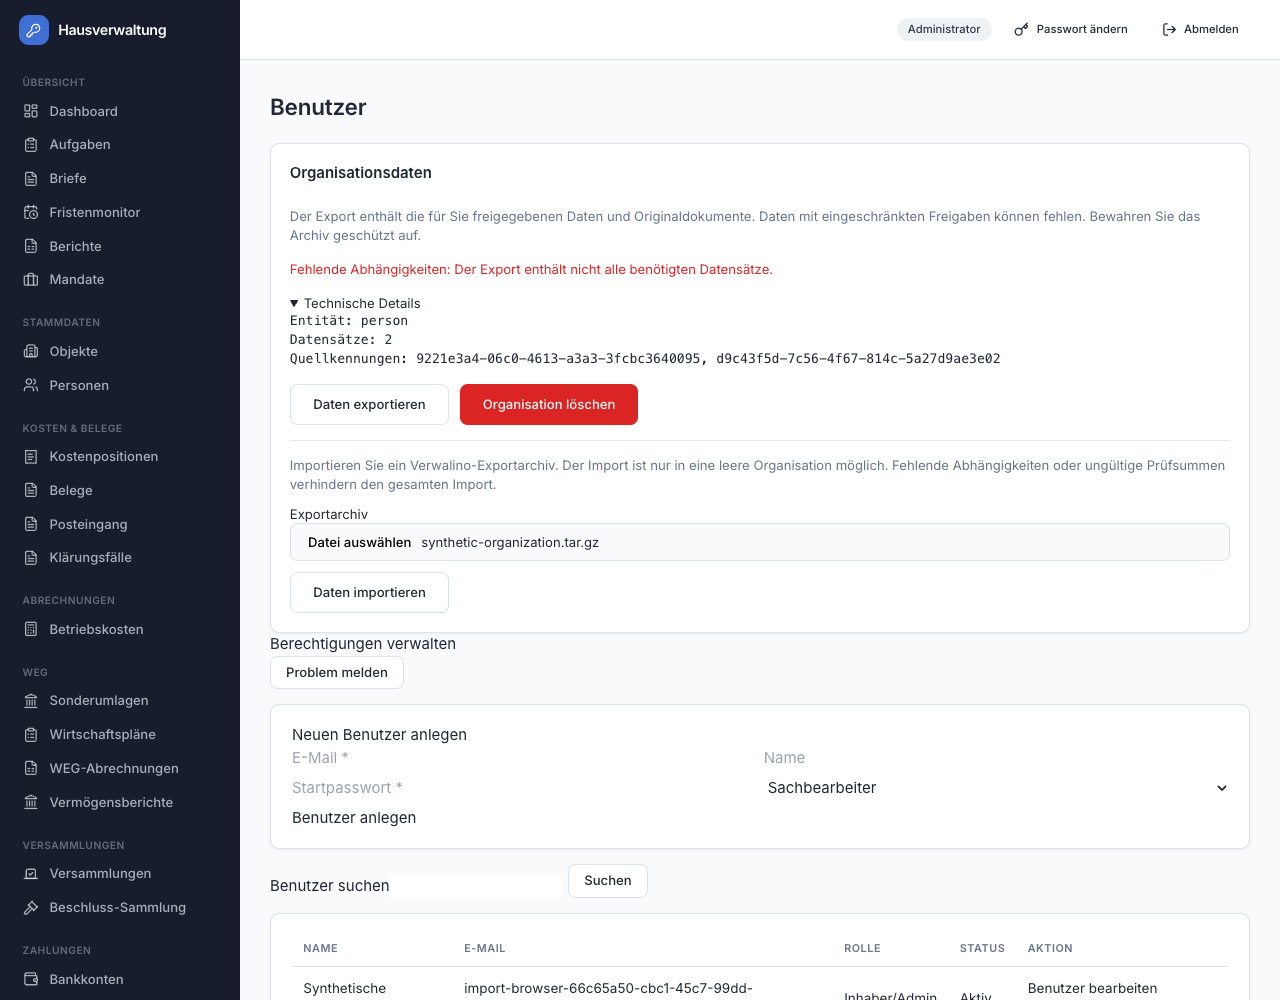
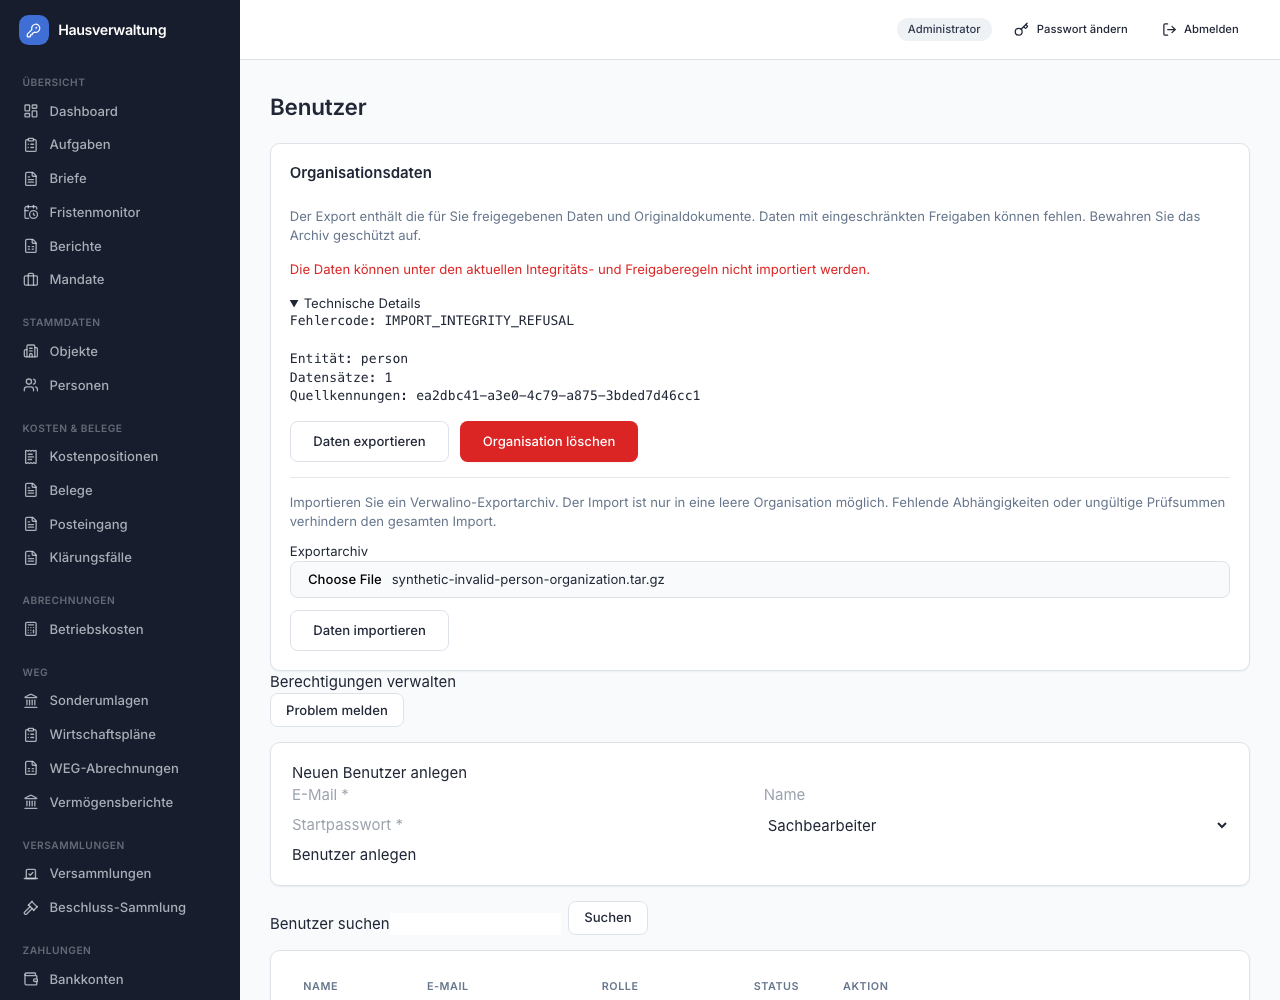
fix(organizations): adapt import rollback and refusal details
Updated self-hosted storage no longer tracks rollback files. Clean new import files before admission unlocks, preserve existing bytes, and resolve deferred integrity checks before returning. Show structured refusal codes in the existing German technical disclosure.

Tests: red-first import and UI regressions; 193 focused backend tests, 27 frontend tests, 25 affected hosted scenarios with 2 skips, lint, docs links, and 13 rule checks. Browser screenshots verified at 1280 and 360 pixels.

Refs #23

diff --git a/frontend/src/components/OrganizationDataCard.test.tsx b/frontend/src/components/OrganizationDataCard.test.tsx
@@ -74,6 +74,23 @@ it("puts import entity names and source IDs in a technical disclosure", async ()
   expect(screen.getByText("Technische Details")).toBeVisible();
 });
 
+it.each(["QUOTA_STORAGE_EXCEEDED", "UPLOAD_TOO_LARGE"])("shows the structured import refusal code %s in technical details", async code => {
+  const message = "Datei zu groß. Bitte wählen Sie eine kleinere Datei.";
+  vi.mocked(api.get).mockResolvedValue({ id: "org", name: "Verwaltung", import_available: true, deletion: null });
+  vi.mocked(uploadFormData).mockRejectedValue(new ApiError(413, message, code, "Entität: person"));
+  render(<OrganizationDataCard />);
+  const input = await screen.findByLabelText("Exportarchiv");
+  const file = new File(["archive"], "organisation.tar.gz");
+  fireEvent.change(input, { target: { files: [file] } });
+  fireEvent.click(screen.getByRole("button", { name: "Daten importieren" }));
+  expect(await screen.findByRole("alert")).toHaveTextContent(message);
+  expect(screen.getByRole("alert")).not.toHaveTextContent(code);
+  const details = screen.getByText(new RegExp(`Fehlercode: ${code}`));
+  expect(details).toHaveTextContent("Entität: person");
+  expect(details.closest("details")).not.toHaveAttribute("open");
+  expect((input as HTMLInputElement).files?.[0]).toBe(file);
+});
+
 it("shows retention, strongly suggests a fresh export and requires the exact organization name", async () => {
   vi.mocked(api.get).mockResolvedValue({ id: "org", name: "Lange Verwaltung GmbH", import_available: false, deletion: null });
   vi.mocked(api.post).mockResolvedValue({ status: "requested", organization_name: "Lange Verwaltung GmbH", notice: "Nach der Löschung ist keine Anmeldung mehr möglich; aufbewahrungspflichtige Unterlagen bleiben für acht Jahre beim Betreiber.", retention: { retained: { audit_event: { count: 4, until: "2034-12-31" } }, erased: { person: 2 }, erased_fields: ["Ungebundene Personendaten"] } });

diff --git a/frontend/src/api/client.test.ts b/frontend/src/api/client.test.ts
@@ -15,12 +15,14 @@ describe("api client", () => {
 
   it.each(["json", "upload"])("keeps import diagnostics outside the German message for %s", async mode => {
     vi.mocked(fetch).mockResolvedValue(response({ detail: {
+      code: "IMPORT_INTEGRITY_REFUSAL",
       message: "Im Archiv fehlen benötigte Abhängigkeiten.",
       missing_dependencies: [{ entity: "person_data_domain", source_ids: ["synthetic-source-id"], count: 1 }],
     } }, 422));
     const error = await (mode === "json" ? api.post("/api/organizations/import") : uploadFormData("/api/organizations/import", new FormData())).catch(reason => reason);
     if (!(error instanceof ApiError)) throw new Error("Expected an API refusal");
     expect(error.message).toBe("Im Archiv fehlen benötigte Abhängigkeiten.");
+    expect(error.code).toBe("IMPORT_INTEGRITY_REFUSAL");
     expect(error.technicalDetails).toContain("person_data_domain");
     expect(error.technicalDetails).toContain("synthetic-source-id");
   });

diff --git a/frontend/src/components/OrganizationDataCard.tsx b/frontend/src/components/OrganizationDataCard.tsx
@@ -27,7 +27,9 @@ export function OrganizationDataCard() {
       refresh(); lifecycleChanged();
     } catch (reason) {
       setError(reason instanceof Error ? reason.message : "Der Import ist fehlgeschlagen.");
-      setTechnicalDetails(reason instanceof ApiError ? reason.technicalDetails : undefined);
+      setTechnicalDetails(reason instanceof ApiError
+        ? [reason.code ? `Fehlercode: ${reason.code}` : undefined, reason.technicalDetails].filter(Boolean).join("\n\n") || undefined
+        : undefined);
     }
     finally { setImporting(false); }
   }

diff --git a/backend/tests/test_organization_import.py b/backend/tests/test_organization_import.py
@@ -100,13 +100,31 @@ async def test_import_refuses_nonempty_target_and_bad_hash(rent_world, import_ta
         assert answer.status_code == 422, answer.text
 
 
-async def test_import_restores_originals_and_cleans_files_after_late_failure(rent_world, import_target, rent_db, export_store, monkeypatch):
+@pytest.mark.parametrize('preexisting', [False, True])
+async def test_import_restores_originals_and_cleans_files_after_late_failure(rent_world, import_target, rent_db, export_store, monkeypatch, preexisting):
     from app.services import organization_import_service as service
     async with api_client(rent_world) as api:
         response = await api.post('/api/attachments', data={'property_id': str(rent_world['property'])},
                                   files={'file': ('original.pdf', b'%PDF-1.4\nportable original\n%%EOF', 'application/pdf')})
         assert response.status_code == 201, response.text
     archive = await exported(rent_world)
+    from app.core.storage import make_storage_key
+    content = b'%PDF-1.4\nportable original\n%%EOF'
+    key = make_storage_key(str(import_target['org']), hashlib.sha256(content).hexdigest())
+    if preexisting:
+        export_store.put(key, content, content_type='application/pdf')
+    import psycopg2
+    from contextlib import closing
+    from tests.conftest import MIGRATOR_SYNC_URL
+    locks_during_cleanup = []
+    discard = export_store.discard_uncommitted
+    def discard_with_admission_held(key):
+        with closing(psycopg2.connect(MIGRATOR_SYNC_URL)) as connection, connection.cursor() as cursor:
+            cursor.execute('SELECT pg_try_advisory_xact_lock_shared(hashtextextended(%s,0))',
+                           (f"scope-acl:{import_target['org']}",))
+            locks_during_cleanup.append(cursor.fetchone()[0])
+        discard(key)
+    monkeypatch.setattr(export_store, 'discard_uncommitted', discard_with_admission_held)
     original = service.put_document
     async def write_then_fail(*args, **kwargs):
         await original(*args, **kwargs)
@@ -115,7 +133,8 @@ async def test_import_restores_originals_and_cleans_files_after_late_failure(ren
     async with api_client(import_target) as api:
         with pytest.raises(RuntimeError, match='synthetic late failure'):
             await api.post('/api/organizations/import', files={'file': ('org.tar.gz', archive)})
-    assert not list((export_store._root / str(import_target['org'])).rglob('*.bin'))
+    assert export_store.exists(key) == preexisting
+    assert locks_during_cleanup == ([] if preexisting else [False])
     monkeypatch.setattr(service, 'put_document', original)
     async with api_client(import_target) as api:
         response = await api.post('/api/organizations/import', files={'file': ('org.tar.gz', archive)})
@@ -154,6 +173,32 @@ async def test_import_keeps_collision_free_entity_ids(rent_world, import_target,
         answer = await api.post('/api/organizations/import', files={'file': ('org.tar.gz', repack(files))})
         assert answer.status_code == 200, answer.text
         assert answer.json()['id_map']['property'][fresh_id] == fresh_id
+
+
+async def test_deferred_import_refusal_erases_new_files_before_releasing_admission(rent_world, import_target, rent_db, export_store):
+    async with api_client(rent_world) as api:
+        response = await api.post('/api/attachments', data={'property_id': str(rent_world['property'])},
+                                  files={'file': ('original.pdf', b'%PDF-1.4\ndeferred original\n%%EOF', 'application/pdf')})
+        assert response.status_code == 201, response.text
+    archive = await exported(rent_world)
+    await rent_db.execute(text(f'''CREATE FUNCTION reject_synthetic_import() RETURNS trigger LANGUAGE plpgsql AS $$
+      BEGIN IF NEW.organization_id='{import_target['org']}'::uuid THEN
+        RAISE EXCEPTION 'Synthetic deferred import refusal' USING ERRCODE='23514';
+      END IF; RETURN NEW; END $$'''))
+    await rent_db.execute(text('''CREATE CONSTRAINT TRIGGER reject_synthetic_import AFTER INSERT ON attachment
+      DEFERRABLE INITIALLY DEFERRED FOR EACH ROW EXECUTE FUNCTION reject_synthetic_import()'''))
+    await rent_db.commit()
+    try:
+        async with api_client(import_target) as api:
+            answer = await api.post('/api/organizations/import', files={'file': ('org.tar.gz', archive)})
+        assert answer.status_code == 422, answer.text
+        assert answer.json()['detail']['code'] == 'IMPORT_INTEGRITY_REFUSAL'
+        assert not list((export_store._root / str(import_target['org'])).rglob('*.bin'))
+    finally:
+        await rent_db.rollback()
+        async with rent_db.begin():
+            await rent_db.execute(text('DROP TRIGGER reject_synthetic_import ON attachment'))
+            await rent_db.execute(text('DROP FUNCTION reject_synthetic_import()'))
 
 
 @pytest.mark.parametrize('actor', ['reader', 'clerk'])

diff --git a/backend/app/services/organization_import_service.py b/backend/app/services/organization_import_service.py
@@ -16,10 +16,11 @@ from pathlib import Path, PurePosixPath
 
 from alembic.script import ScriptDirectory
 from fastapi import HTTPException
-from sqlalchemy import text
+from sqlalchemy import event, text
 from sqlalchemy.exc import DBAPIError
 
-from app.core.storage import make_storage_key, put_document
+from app.core.storage import LocalFsDocumentStore, get_store, make_storage_key, put_document
+from app.core.quotas import get_quota_plan
 from app.core.uploads import MAX_UPLOAD_BYTES
 from app.deployment import TARGET
 from app.services.organization_archive import FORMAT, SECRET_COLUMNS, json_bytes
@@ -330,6 +331,20 @@ async def import_organization(db, auth, source):
                     refuse('Ein Speicher- oder Versandnachweis passt zu keinem geprüften Original.',
                            entity='audit_event', source_ids=[row['id']], count=1)
 
+        store = get_store()
+        if get_quota_plan().name == 'unlimited' and isinstance(store, LocalFsDocumentStore):
+            new_keys = {key for key in storage_map.values() if not store.exists(key)}
+            connection = await db.connection()
+            # Connection rollback fires before PostgreSQL releases the exclusive
+            # import ACL lock. Later Session callbacks would race waiting uploads.
+            @event.listens_for(connection.sync_connection, 'rollback', once=True)
+            def discard_import_files(_connection):
+                for key in new_keys:
+                    try:
+                        store.discard_uncommitted(key)
+                    except OSError:
+                        logger.warning('Import rollback file cleanup failed for %s', key, exc_info=True)
+
         organization = {k: v for k, v in entities['organization'][0].items() if k not in {'id', 'source_id'}}
         columns = ','.join(f'"{c}"' for c in organization)
         projection = ','.join(f'(v)."{c}"' for c in organization)
@@ -434,15 +449,17 @@ async def import_organization(db, auth, source):
                     progress = True
                 if not progress:
                     refuse('Das Archiv enthält zyklische oder nicht auflösbare Abhängigkeiten.')
+            counts = {name: len(rows) for name, rows in entities.items()}
+            source_ids = {name: {id_map[name][r['id']]: r.get('source_id', r['id']) for r in rows if r.get('id')}
+                          for name, rows in entities.items() if name in id_map}
+            await db.execute(text('''INSERT INTO audit_event(organization_id,actor_user_id,entity_type,entity_id,action,payload_diff,occurred_at)
+              VALUES (:org,:actor,'organization',:org,'organization.import.completed',CAST(:payload AS jsonb),clock_timestamp())'''),
+              {'org': auth.organization_id, 'actor': auth.user_id, 'payload': json_bytes({'source_ids': source_ids, 'row_counts': counts}).decode()})
+            # Resolve deferred integrity failures while admission still excludes other writers.
+            await db.execute(text('SET CONSTRAINTS ALL IMMEDIATE'))
+            return {'row_counts': counts, 'id_map': id_map}
         except DBAPIError as exc:
             # Structured driver codes only; no SQL, target identities or values.
             code = getattr(exc.orig, 'sqlstate', None)
             logger.warning('organization import rejected by database sqlstate=%s', code)
             refuse('Die Daten können unter den aktuellen Integritäts- und Freigaberegeln nicht importiert werden.', code='IMPORT_INTEGRITY_REFUSAL', entity=name, source_ids=[original.get('id', original.get('request_key'))], count=1)
-        counts = {name: len(rows) for name, rows in entities.items()}
-        source_ids = {name: {id_map[name][r['id']]: r.get('source_id', r['id']) for r in rows if r.get('id')}
-                      for name, rows in entities.items() if name in id_map}
-        await db.execute(text('''INSERT INTO audit_event(organization_id,actor_user_id,entity_type,entity_id,action,payload_diff,occurred_at)
-          VALUES (:org,:actor,'organization',:org,'organization.import.completed',CAST(:payload AS jsonb),clock_timestamp())'''),
-          {'org': auth.organization_id, 'actor': auth.user_id, 'payload': json_bytes({'source_ids': source_ids, 'row_counts': counts}).decode()})
-        return {'row_counts': counts, 'id_map': id_map}

diff --git a/docs/operations/organization-export.md b/docs/operations/organization-export.md
@@ -134,6 +134,13 @@ individual JSON rows/manifest to 2 MiB, 20,000 rows and 10,000 regular members,
 and each original to 64 MiB. Gzip and PAX/GNU extension headers are refused before their
 payload is read; official v1/v2 exports do not use them. Larger imports need a worker-based transfer increment.
 
+Failed self-hosted imports remove only previously absent destination files,
+before the database rollback releases exclusive import admission. Existing files
+remain untouched. Deferred integrity checks run before the importer returns, so
+their refusals use the same protected cleanup path. Hosted imports retain the
+storage layer's transaction and filesystem locking. Ordinary unlimited storage
+operations do not acquire hosted quota locks or change their cleanup behavior.
+
 Every UUID collision is consistently remapped. Collision-free entity IDs are
 preserved (including on a fresh installation). The organization always maps to
 the destination. Global cost categories resolve by `code` and `plan_version`.

diff --git a/DESIGN.md b/DESIGN.md
@@ -151,6 +151,9 @@ The labelled archive input preserves the file on refusal. German error copy stay
 in the alert; raw entity names, source IDs and counts appear only in a collapsed
 “Technische Details” disclosure with wrapping text. Import reports the processed
 archive row count.
+Structured import refusal codes are read from `ApiError.code` and appear as
+“Fehlercode: …” in that same disclosure, alongside any entity/source diagnostics.
+The German alert text and selected archive remain available for retry.
 “Organisation löschen” opens a scrollable kit dialog with retained entity
 counts/deadlines, erasure categories, the German no-login/operator-retention
 notice and a prominent fresh-export recommendation/button immediately before
